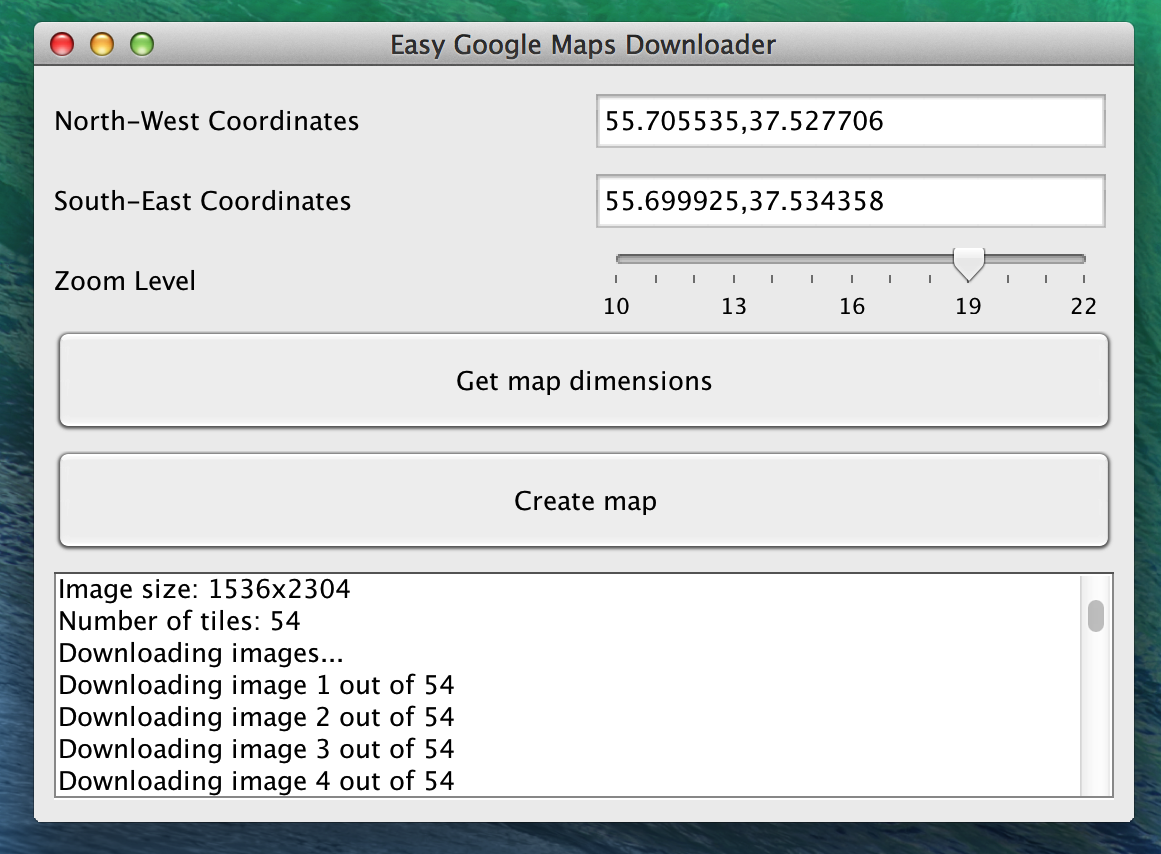
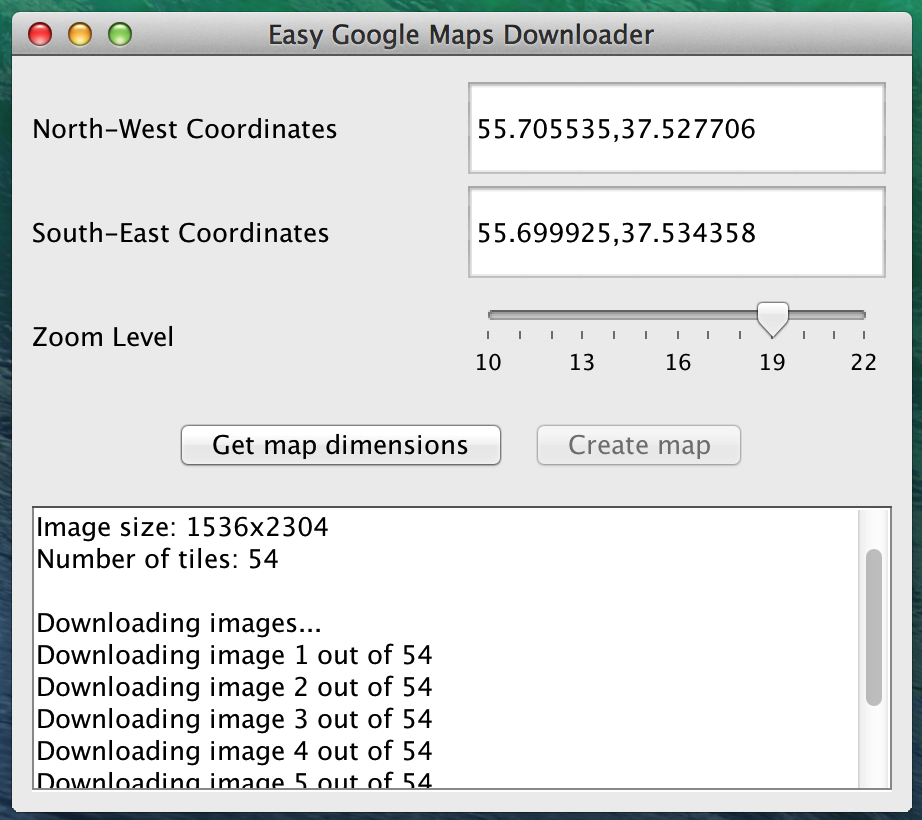
Layout changes

Changed region(s): [[0.0, 0.0, 1.0, 1.0], [0.3948, 0.4268, 0.6377, 0.4573], [0.7289, 0.4268, 0.7592, 0.4573]]

diff --git a/src/MapsDownloader.java b/src/MapsDownloader.java
@@ -127,6 +127,15 @@ public class MapsDownloader extends JPanel {
         console = new javax.swing.JTextArea();
         JScrollPane scroll = new JScrollPane(console);
 
+        zoomLevel.setLabelTable( zoomLevel.createStandardLabels(3) );
+        zoomLevel.setMinorTickSpacing(1);
+        zoomLevel.setPaintTicks(true);
+        zoomLevel.setPaintLabels(true);
+
+        console.setColumns(25);
+        console.setRows(10);
+        console.setEditable(false);
+
         CreateButtonHandler create = new CreateButtonHandler();
         createButton.addActionListener(create);
 
@@ -144,39 +153,35 @@ public class MapsDownloader extends JPanel {
 
         scroll.setVerticalScrollBarPolicy ( ScrollPaneConstants.VERTICAL_SCROLLBAR_ALWAYS );
 
-        JPanel content = new JPanel();
-        content.setLayout(new GridLayout(0, 1, 7, 7) );
-        content.setBorder(BorderFactory.createEmptyBorder(10, 10, 10, 10));
-        JPanel north = new JPanel();
-        north.setLayout(new GridLayout(0, 2, 7, 7));
-        JPanel center = new JPanel();
-        center.setLayout(new GridLayout(0, 1, 7, 7));
-        JPanel south = new JPanel();
-        south.setLayout(new BorderLayout());
+        JPanel pane = new JPanel(new BorderLayout(10, 10));
+        pane.setBorder(BorderFactory.createEmptyBorder(10, 10, 10, 10));
 
-        content.add(north);
-        content.add(center);
-        content.add(south);
+        JPanel north = new JPanel(new BorderLayout(10, 10));
+        JPanel northFields = new JPanel(new GridLayout(0, 2));
+        JPanel northButtons = new JPanel(new FlowLayout());
 
-        north.add(startLabel);
-        north.add(startTextField);
-        north.add(endLabel);
-        north.add(endTextField);
-        north.add(zoomLabel);
-        north.add(zoomLevel);
+        pane.add(north, BorderLayout.NORTH);
+        pane.add(scroll, BorderLayout.CENTER);
 
-        center.add(calculateButton);
-        center.add(createButton);
+        north.add(northFields, BorderLayout.NORTH);
+        north.add(northButtons, BorderLayout.CENTER);
 
-        south.add(scroll, BorderLayout.CENTER);
+        northFields.add(startLabel);
+        northFields.add(startTextField);
+        northFields.add(endLabel);
+        northFields.add(endTextField);
+        northFields.add(zoomLabel);
+        northFields.add(zoomLevel);
+
+        northButtons.add(calculateButton);
+        northButtons.add(createButton);
 
         JFrame window = new JFrame("Easy Google Maps Downloader");
-        window.setContentPane(content);
-        window.setSize(550, 400);
+        window.setContentPane(pane);
+        window.setSize(450, 400);
         window.setLocation(100, 100);
         window.setVisible(true);
         window.setDefaultCloseOperation(JFrame.EXIT_ON_CLOSE);
-
     }
 
 }
